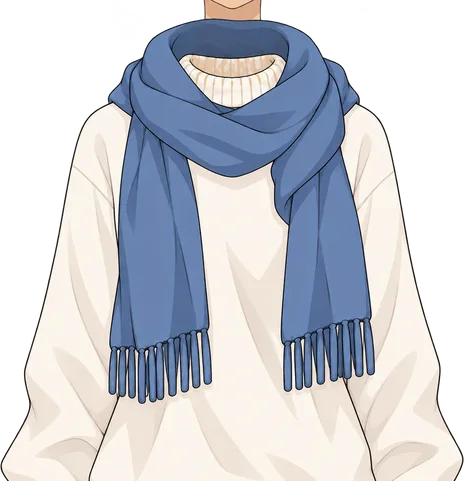
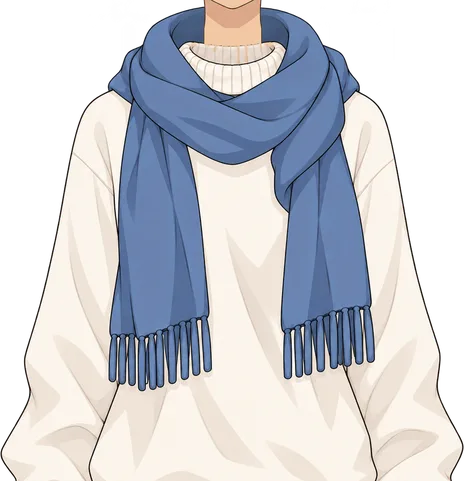
Sweater & scarf: longer neck rising out of the white turtleneck, head lower relative to the outfit

diff --git a/sw.js b/sw.js
@@ -1,5 +1,5 @@
 // Network first, cache as fallback: updates show up right away when online, and the app still opens offline.
-const CACHE = 'pumpelek-v15';
+const CACHE = 'pumpelek-v17';
 const ASSETS = [
   './', 'index.html', 'manifest.webmanifest', 'css/style.css',
   'js/util.js', 'js/seed.js', 'js/avatar-art.js', 'js/avatar.js', 'js/store.js', 'js/srs.js', 'js/csv.js',

diff --git a/tools/avatar-art/skin2.py b/tools/avatar-art/skin2.py
@@ -27,7 +27,8 @@ def mask_head(rgb, a):
     return (a > 0) & (h <= 32) & (s >= 0.08) & (s <= 0.8) & (v >= 0.58)
 
 
-def mask_outfit(rgb, a, arms=False):
+def mask_outfit(rgb, a, arms=False, loose=True):
+    # loose: True = neck zone down to row 760; a number = neck zone only down to that row
     h, s, v = hsv(rgb)
     strict = (a > 20) & (h >= 18) & (h <= 28) & (s >= 0.15) & (s <= 0.45) & (v >= 0.55)
     lab, n = ndi.label(strict)
@@ -44,9 +45,10 @@ def mask_outfit(rgb, a, arms=False):
         keep[i] = in_neck or is_hand or is_arm
     m = keep[lab]
     # the neck zone itself, loosely, so the shaded neck and the join with the head are included
-    zone = np.zeros_like(m); zone[470:760, 480:650] = True
+    zone = np.zeros_like(m); zone[470:(760 if loose is True else int(loose)), 480:650] = True
+    loose_zone = bool(loose)
     loose = (a > 0) & (h >= 10) & (h <= 30) & (s >= 0.12) & (s <= 0.7) & (v >= 0.5) & zone
-    return m | loose
+    return (m | loose) if loose_zone else m
 
 
 def tint(arr, m, tone):
@@ -58,10 +60,10 @@ def tint(arr, m, tone):
     return out
 
 
-def recolor(img, tone, kind, arms=False):
+def recolor(img, tone, kind, arms=False, loose=True):
     arr = np.array(img.convert('RGBA'))
     rgb = arr[..., :3].astype(np.float32)
-    m = mask_head(rgb, arr[..., 3]) if kind == 'head' else mask_outfit(rgb, arr[..., 3], arms)
+    m = mask_head(rgb, arr[..., 3]) if kind == 'head' else mask_outfit(rgb, arr[..., 3], arms, loose)
     # pixels on the soft edge of the skin area (blended with outline or background) get the tint too
     h, s, v = hsv(rgb)
     edge = ndi.binary_dilation(m, iterations=2) & ~m & (arr[..., 3] > 0) & (v >= 0.45) & (h <= 45)

diff --git a/tools/avatar-art/export_outfits.py b/tools/avatar-art/export_outfits.py
@@ -87,7 +87,19 @@ for n, t in T.items():
     for i, y in enumerate(range(f0, cut)):
         strip[y, :, 3] = (strip[y, :, 3] * (1 - (i + 1) / (cut - f0 + 1))).astype(np.uint8)
     s = Image.new('RGBA', (O.W, O.H), (0, 0, 0, 0)); s.alpha_composite(Image.fromarray(strip, 'RGBA'), dest=(0, O.PAD))
-    layer = Image.alpha_composite(s, layer) if n == 'wintersweater' else Image.alpha_composite(layer, s)   # the scarf goes in front of the neck
+    if n == 'wintersweater':
+        # the neck comes up out of the white turtleneck, in front of the dark inside of the scarf:
+        # draw it over the outfit, but only above the top edge of the white collar (column by column)
+        sa = np.array(s)
+        lay = np.asarray(layer)
+        white = (lay[..., 3] > 200) & (lay[..., :3].min(axis=2) > 205) & ((lay[..., :3].max(axis=2).astype(int) - lay[..., :3].min(axis=2)) < 32)
+        for x in range(sa.shape[1]):
+            col = np.nonzero(white[560:760, x])[0]
+            lim = 560 + int(col[0]) - 1 if len(col) else 760
+            sa[lim:, x, 3] = 0
+        layer = Image.alpha_composite(layer, Image.fromarray(sa, 'RGBA'))
+    else:
+        layer = Image.alpha_composite(layer, s)
     layer.save(f'{OUT}outfit_{IDS[n]}.png')
 print(sorted(f for f in os.listdir(OUT) if f.startswith('outfit_') or f == 'head.png'))
 # check from the exported files only

diff --git a/tools/avatar-art/export_web.py b/tools/avatar-art/export_web.py
@@ -62,7 +62,7 @@ if __name__ == '__main__':
         for o in OUTFITS:
             img = op('outfit_' + o)
             for i, s in enumerate(SKINS):
-                save(f'outfit:{o}:{s}', img if i == 0 else skin2.recolor(img, TONES[i], 'outfit', o == 'sundress'))
+                save(f'outfit:{o}:{s}', img if i == 0 else skin2.recolor(img, TONES[i], 'outfit', o == 'sundress', 681 if o == 'wintersweater' else True))
             print('outfit', o, flush=True)
     if part in ('all', 'hair'):
         for h in HAIRS:
